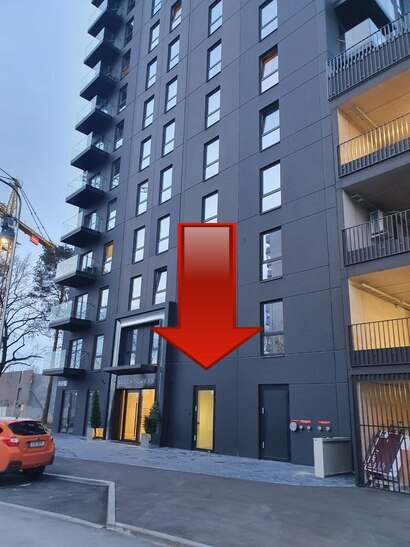
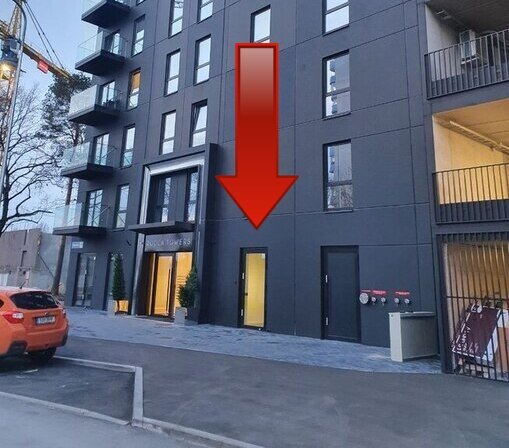
fix image

diff --git a/index.html b/index.html
@@ -438,8 +438,8 @@
   </script>
   <script>
     var contentString = {
-        est: '<div style="color: black"><h6>Asume Rocca Tower 1 majas</h6><p>Esimene korrus, eraldi sissepääs õuest</p><p>Aadress: Päevalille tn 4</p><img src="../img/map/building.jpg" style="height: 71px;"><img src="../img/portfolio/entrance.jpg" style="height: 71px; margin-left: 10px;"></div>',
-        rus: '<div style="color: black"><h6>Мы находимся в Rocca Tower 1</h6><p>Первый этаж, отдельный вход со двора</p><p>Адрес: Päevalille tn 4</p><img src="../img/map/building.jpg" style="height: 71px;"><img src="../img/portfolio/entrance.jpg" style="height: 71px; margin-left: 10px;"></div>'
+        est: '<div style="color: black"><h6>Asume Rocca Tower 1 majas</h6><p>Esimene korrus, eraldi sissepääs õuest</p><p>Aadress: Päevalille tn 4</p><img src="../img/portfolio/building.jpg" style="height: 71px;"><img src="../img/portfolio/entrance.jpg" style="height: 71px; margin-left: 10px;"></div>',
+        rus: '<div style="color: black"><h6>Мы находимся в Rocca Tower 1</h6><p>Первый этаж, отдельный вход со двора</p><p>Адрес: Päevalille tn 4</p><img src="../img/portfolio/building.jpg" style="height: 71px;"><img src="../img/portfolio/entrance.jpg" style="height: 71px; margin-left: 10px;"></div>'
     }
     var portfolioImgs = {
       web: ['barbershop_web_1.jpg', 'barbershop_web_2.jpg', 'barbershop_web_3.jpg', 'barbershop_web_9.jpg', 'barbershop_web_6.jpg', 'barbershop_web_8.jpg'],

diff --git a/ru/index.html b/ru/index.html
@@ -442,8 +442,8 @@
 
   <script>
     var contentString = {
-        est: '<div style="color: black"><h6>Asume Rocca Tower 1 majas</h6><p>Esimene korrus, eraldi sissepääs õuest</p><p>Aadress: Päevalille tn 4</p><img src="../img/map/building.jpg" style="height: 71px;"><img src="../img/portfolio/entrance.jpg" style="height: 71px; margin-left: 10px;"></div>',
-        rus: '<div style="color: black"><h6>Мы находимся в Rocca Tower 1</h6><p>Первый этаж, отдельный вход со двора</p><p>Адрес: Päevalille tn 4</p><img src="../img/map/building.jpg" style="height: 71px;"><img src="../img/portfolio/entrance.jpg" style="height: 71px; margin-left: 10px;"></div>'
+        est: '<div style="color: black"><h6>Asume Rocca Tower 1 majas</h6><p>Esimene korrus, eraldi sissepääs õuest</p><p>Aadress: Päevalille tn 4</p><img src="../img/portfolio/building.jpg" style="height: 71px;"><img src="../img/portfolio/entrance.jpg" style="height: 71px; margin-left: 10px;"></div>',
+        rus: '<div style="color: black"><h6>Мы находимся в Rocca Tower 1</h6><p>Первый этаж, отдельный вход со двора</p><p>Адрес: Päevalille tn 4</p><img src="../img/portfolio/building.jpg" style="height: 71px;"><img src="../img/portfolio/entrance.jpg" style="height: 71px; margin-left: 10px;"></div>'
     }
     var portfolioImgs = {
       web: ['barbershop_web_1.jpg', 'barbershop_web_2.jpg', 'barbershop_web_3.jpg', 'barbershop_web_9.jpg', 'barbershop_web_6.jpg', 'barbershop_web_8.jpg'],
